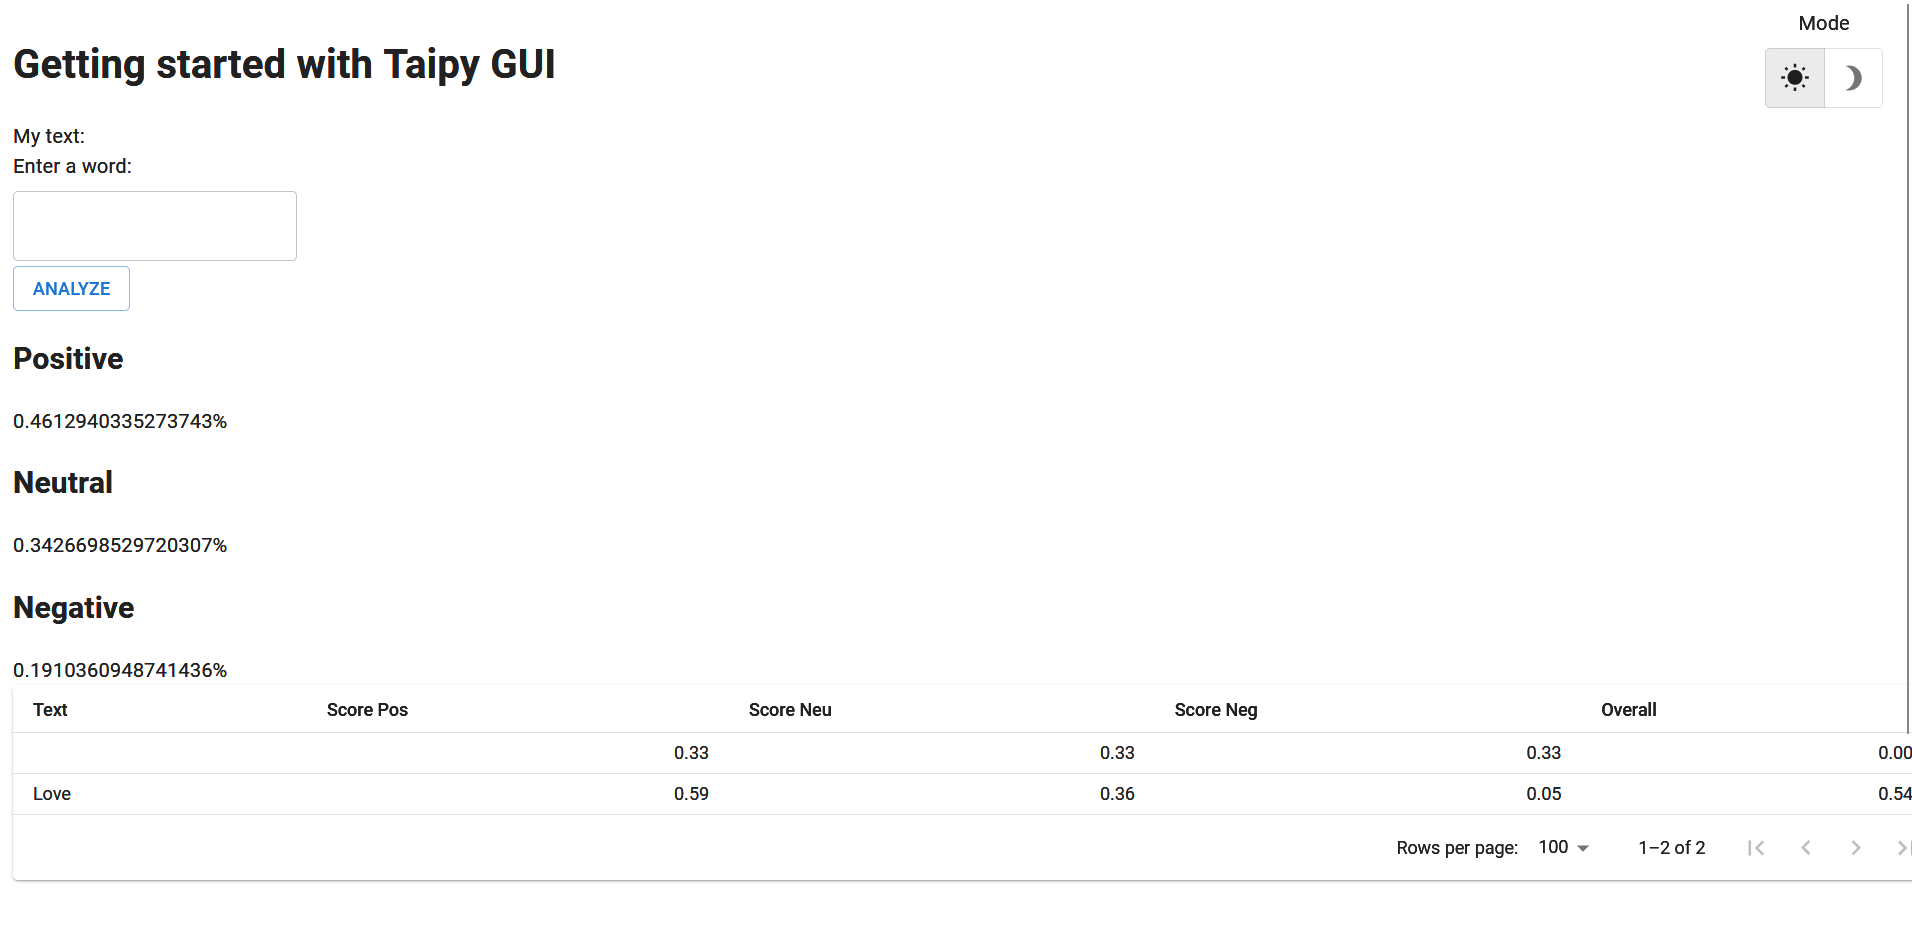
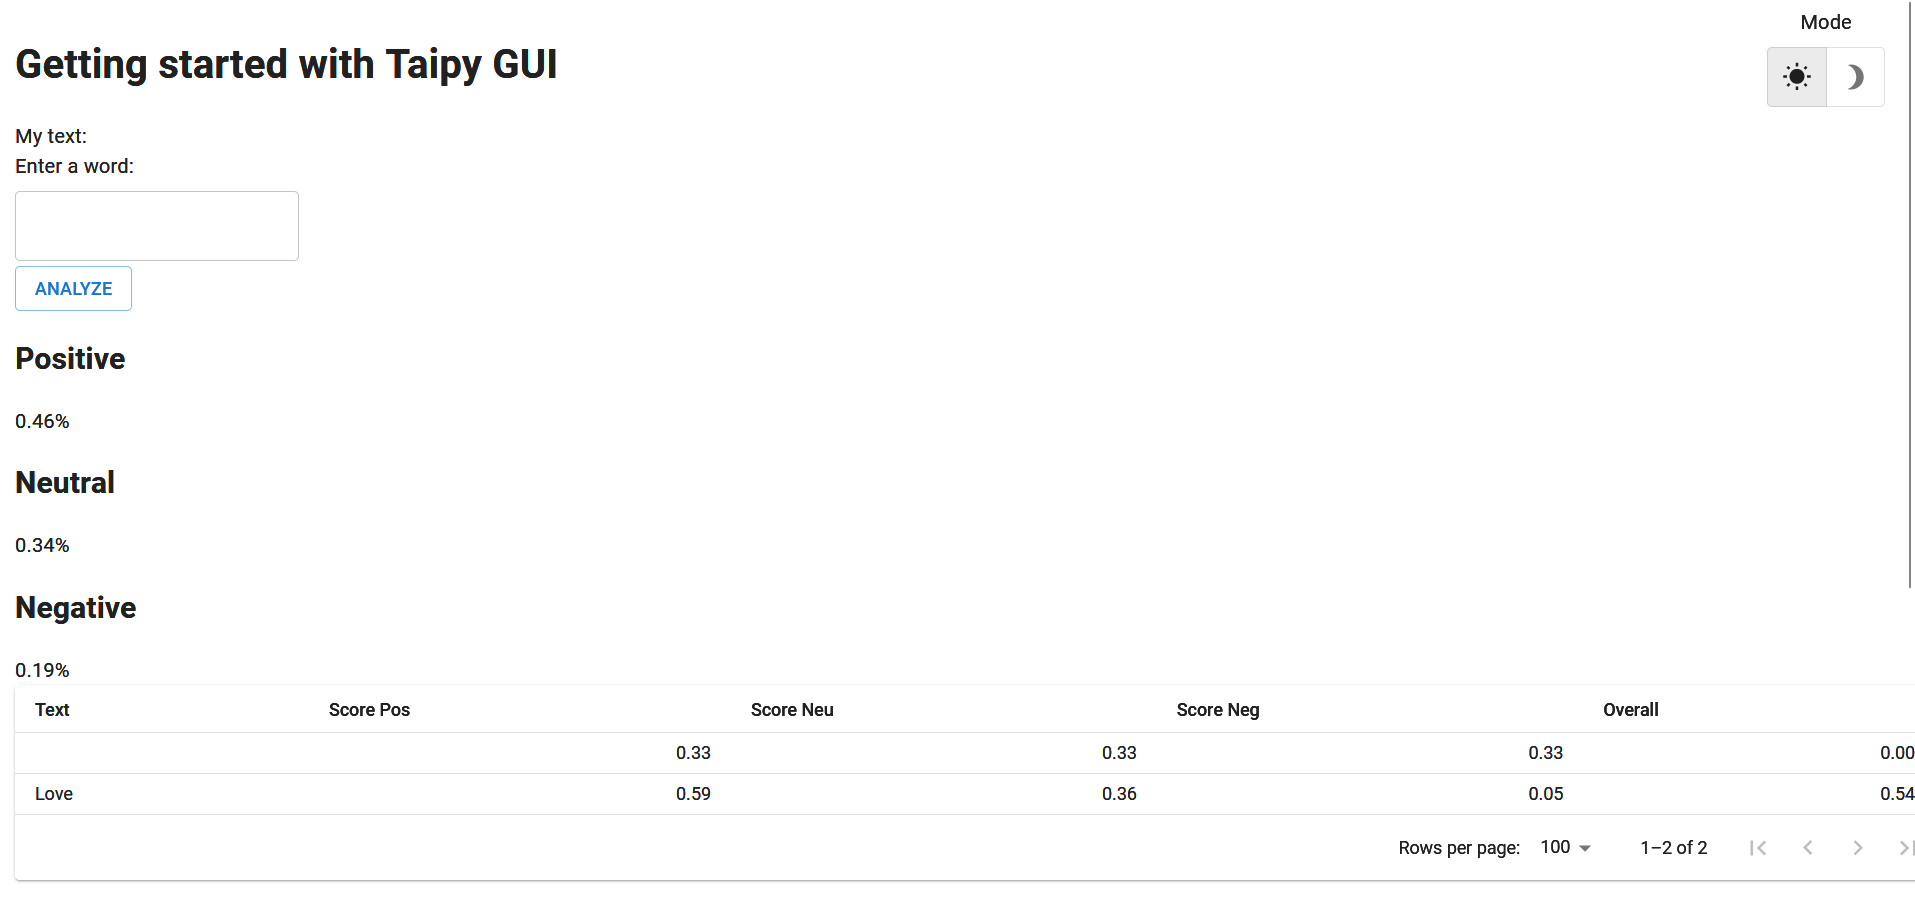
Change image

diff --git a/src/step_05.py b/src/step_05.py
@@ -56,13 +56,13 @@ Enter a word:
 <|Analyze|button|on_action=local_callback|>
 
 ## Positive
-<|{np.mean(dataframe['Score Pos'])}|text|format=%.2f|>%
+<|{float(np.mean(dataframe['Score Pos']))}|text|format=%.2f|>%
 
 ## Neutral
-<|{np.mean(dataframe['Score Neu'])}|text|format=%.2f|>%
+<|{float(np.mean(dataframe['Score Neu']))}|text|format=%.2f|>%
 
 ## Negative
-<|{np.mean(dataframe['Score Neg'])}|text|format=%.2f|>%
+<|{float(np.mean(dataframe['Score Neg']))}|text|format=%.2f|>%
 
 <|{dataframe}|table|number_format=%.2f|>
 
